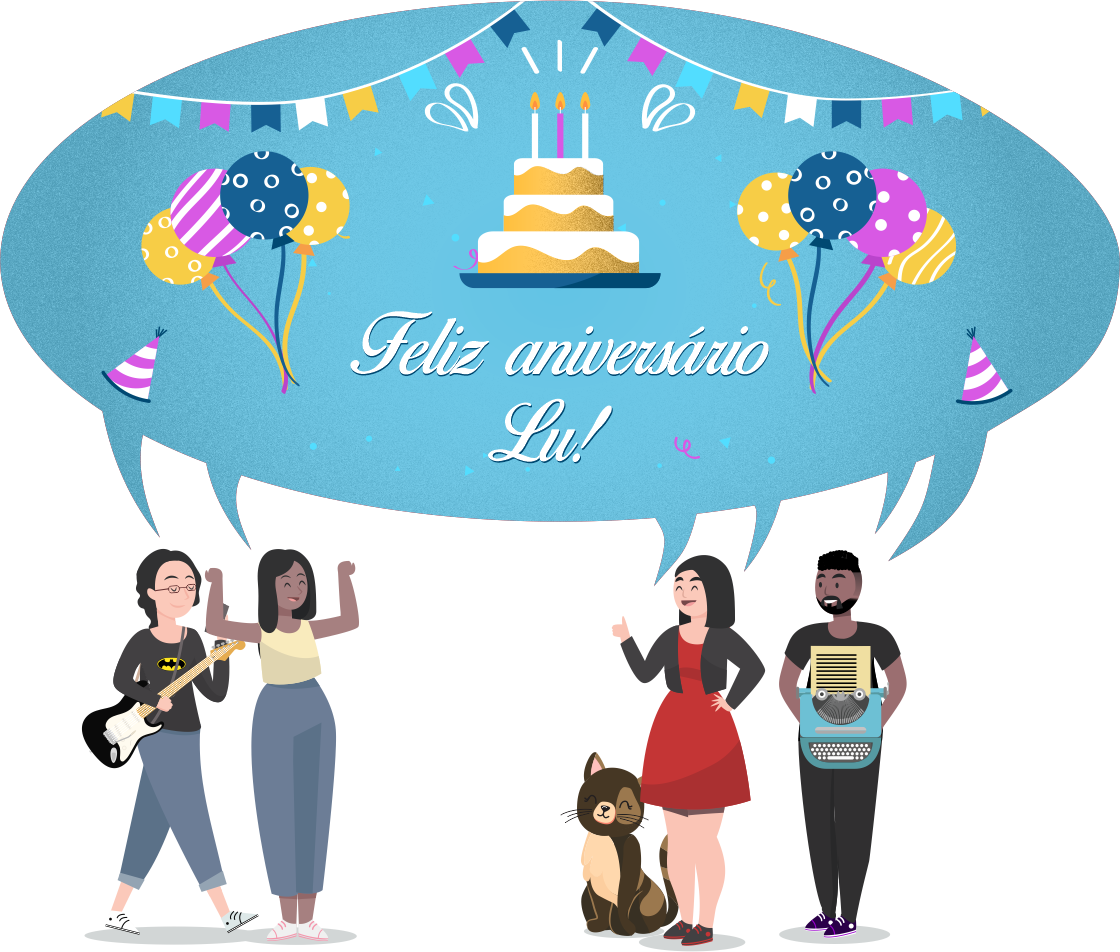
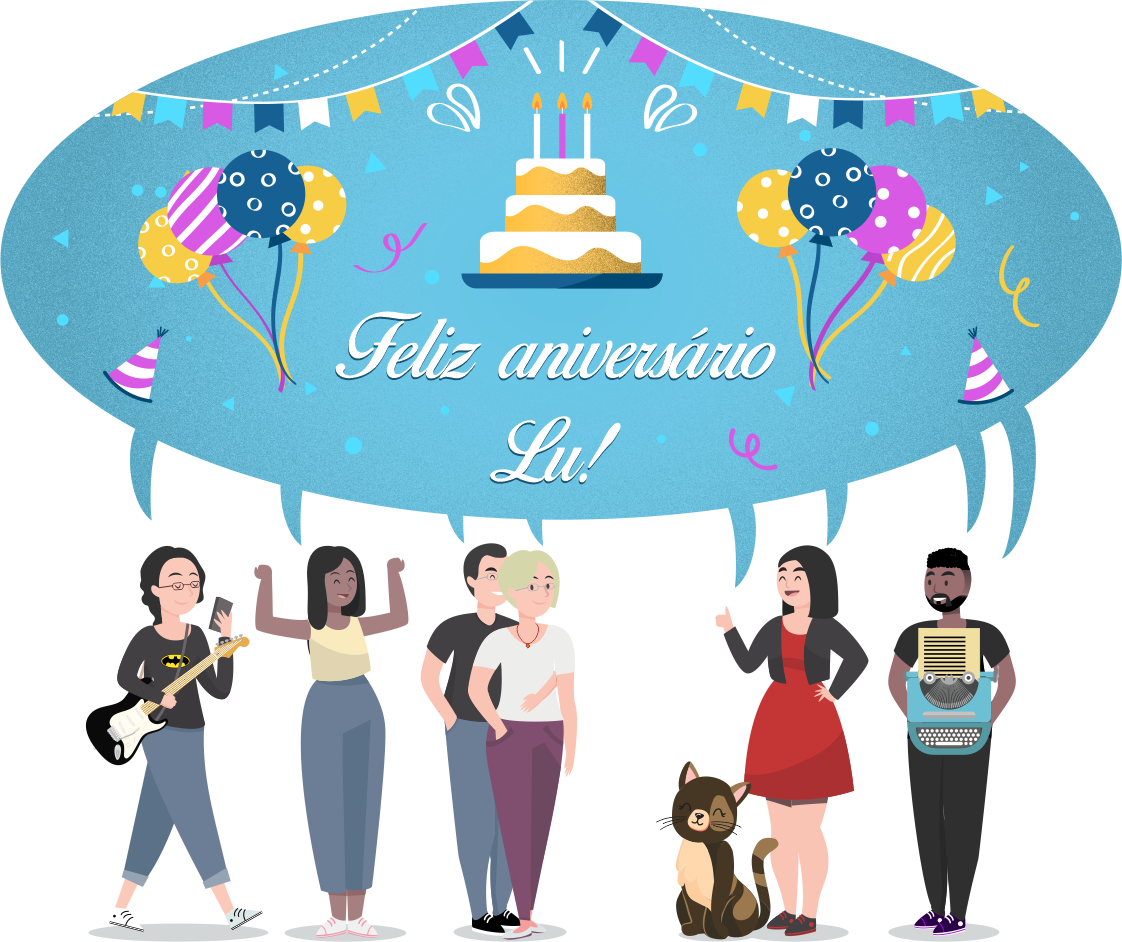
parte dos pais

diff --git a/js/botoes.js b/js/botoes.js
@@ -12,20 +12,22 @@ document.addEventListener("DOMContentLoaded", function(){  // Só vai rodar Js q
     var BtnV = document.getElementById("btnla2");
     var BtnV2 = document.getElementById("btnya2");
     var name = document.querySelector(".caixatexto");
-    var FalasJu = ["Parabéns Lu, desejo tudo de bom para você!", "Ohana", "Aniversários são muitos importantes", "Toddy é melhor que Nescau"];
-    var FalasLa = ["Experlliarmus", "wingardium leviosa"];
+    var FalasJu = ["Parabéns Luuuu!!!! Tudo de bla bla bla!!!", "Kkk a escritora é tu e você sabe que eu não sei falar sobre sentimentos... Sei que você queria que esse ano fosse diferente, festão e tal e infelizmente não teremos como fazer... ", "Mas que esse novo ciclo que inicia seja cheio de realizações, planos, amor, conquistas e bla bla bla ( leia com a voz do Dracula do hotel Transilvânia) 💙💙💙"];
+    var FalasLa = ["Parabéns Lu!!!❤ Feliz aniversário, muitos anos de vidas!", "Conte sempre comigo ❤ Vou te ajudar sempre."];
     var FalasYa = ["Feliz aniversário Lu! Desejo a você muitos anos de vida, paz e amor. Espero que nesse seu 25º aniversário você consiga conquistar tudo o que sempre quis e sonhou.", "Seu querido parceiro, amigo, amante e eterno admirador vai estar sempre com você em todos os momentos que precisar.❤", "Um grande abraço e um beijo com todo o amor e carinho que você conquistou de mim, minha eterna inspiração.  ❤ Amo muito você! ❤", "E eu não sou fofo!"];
     var FalasHo = ["1. O começo...","Campinas, 17 de outubro de 1995 uma bebê de olhos castanhos claros, sobre sua cabeça fios castanhos, chorava desorientada, com tudo.", "Nasce ali a segunda filha de um lindo casal, Luciana e José Luis, Desde cedo seu sorriso contagiava a todos em sua volta.",
     "Sua mãe a nomeou Luísa, a guerreira gloriosa, com o passar dos anos a criança ganhou grande apreço por livros e pela", "Cultura Geek, houve grandes momentos em sua vida, a formatura do Ensino médio, do curso de confeitaria, caligrafia,", "Do curso de inglês ou daquela vez que derrotou o alfaiate no The Witcher 2. Assim como todos também teve seus baixos,",
     "Mas conseguiu superar tudo com a sua força de vontade e ajuda da sua família, hoje é ainda mais incrível e especial que ontem.","Tenho muito orgulho por estar contado um resumo da vida dela minha amada dona, Luísa, Feliz aniversário!!!!", "Fim!"];
     var FalasLu = ["Hmm?", "Hmm...", "Hmm!", "Fuck"];
     var FalasSa = ["Miau!", "Miau..."];
+    var FalasPa = ["Oiiii!!!!!! Bom dia!!!!!!!", "É difícil escrever alguma coisa.... Não que eu não saiba, só perdi o jeito. Eu não escrevo mais. Só mando mensagens pré-escrita por outros....", "Sabe, gostaria de que você tivesse a certeza que eu te amo, incondicionalmente. Que desejo que você seja feliz e tenha todo o sucesso que merece e almeja. Tenha paz e amor no coração.", " Acredite sempre em você, tudo você pode e tudo lhe será dado pelo universo.  Feliz aniversário gatinha... Amo muito você.","Feliz aniversário!!!!!🎁🎉💖🎂", " Ai como é difícil escrever🤪... É tanta coisa que eu queria falar... Mas o que eu gostaria mesmo é que nesse próximo ciclo,", "todas as dores, dúvidas, medos, incertezas sejam trocadas por muito amor, muitas realizações, muitos sonhos e muita, muita, muita, muita felicidade!!!! Te amo muitão!!!!❤❤❤❤❤",""];
     var FalasCa = ["Oi Lu, menina primeiro de tudo eu queria te desejar um maravilhoso aniversário de quarentena!! acho que a gente nunca iria imaginar que isso aconteceria, ","mas já que estamos aqui, que ele seja tão bom quanto os outros. Quero te desejar também tudo de bom desse mundo e toda a felicidade, umas terapia pra enfrentar seja lá ", "o que é isso que a gente tá passando agora 😫 e que você conquiste tudo o que quer. Queria aproveitar pra dizer que você sempre foi uma amiga maravilhosa","a gente se conhece a muitos anos e apesar de morarmos longe e de ter perdido o contrato por um certo tempo, eu fico muito feliz de que a gente voltou a conversar e ", "que continuamos sendo amiguinhas, podendo falar sobre qualquer coisa, literalmente, a gente tem umas conversa aleatória que são boas demais KKKK.", "Obrigada pelo apoio que você vem me dado e eu só espero estar retribuindo tudo isso, quero que saiba que você é muito importante pra mim, sempre foi, e que vou estar aqui pra você se precisar ou não. ", "Pode falar comigo sobre o que quiser, to sempre aí pra ouvir ❤ Parabéns de novo, amo muito você e tô com saudades, espero te ver em breve."];
-    var FotosJu = ["Fts/JuliaFt1.png","Fts/JuliaFt2.png","Fts/JuliaFt3.png","Fts/JuliaFt4.png","Fts/JuliaFt5.png","Fts/JuliaFt6.png","Fts/JuliaFt7.png","Fts/JuliaFt8.png"]
+    var FotosJu = ["Fts/JuliaFt1.png","Fts/JuliaFt2.png","Fts/JuliaFt3.png","Fts/JuliaFt4.png","Fts/JuliaFt5.png","Fts/JuliaFt6.png",];
     var FotosLa = ["Fts/LauraFt1.png","Fts/LauraFt3.png","Fts/LauraFt5.png","Fts/LauraFt6.png"];
     var FotosYa = ["Fts/YagoFt1.png","Fts/YagoFt2.png","Fts/YagoFt3.png","Fts/YagoFt4.png","Fts/YagoFt5.png","Fts/YagoFt6.png","Fts/YagoFt7.png","Fts/YagoFt8.png",];
     var FotosSa = ["Fts/SavicFt1.png","Fts/SavicFt2.png","Fts/SavicFt3.png","Fts/SavicFt4.png"];
     var FotosLu = ["Fts/LuisaFt1.png","Fts/LuisaFt9.png","Fts/LuisaFt3.png","Fts/LuisaFt2.png","Fts/LuisaFt5.png","Fts/LuisaFt6.png","Fts/LuisaFt7.png","Fts/LuisaFt8.png"];
+    var FotosPa = ["Fts/PaisFt1.png","Fts/PaisFt2.png","Fts/PaisFt3.png","Fts/PaisFt4.png","Fts/PaisFt5.png","Fts/PaisFt6.png","Fts/PaisFt7.png","Fts/PaisFt8.png","Fts/PaisFt9.png","Fts/PaisFt10.png","Fts/PaisFt11.png","Fts/CarolFt14.png","Fts/CarolFt14.png","Fts/CarolFt14.png"];
     var FotosHo = ["Fts/HortenciaFt1.png","Fts/HortenciaFt2.png","Fts/HortenciaFt3.png","Fts/HortenciaFt4.png","Fts/HortenciaFt5.png","Fts/HortenciaFt6.png","Fts/HortenciaFt7.png","Fts/HortenciaFt8.png","Fts/HortenciaFt9.png","Fts/HortenciaFt10.png","Fts/HortenciaFt11.png","Fts/HortenciaFt12.png","Fts/HortenciaFt13.png","Fts/HortenciaFt14.png","Fts/HortenciaFt15.png","Fts/HortenciaFt16.png","Fts/HortenciaFt17.png","Fts/HortenciaFt18.png"];
     var FotosCa = ["Fts/CarolFt1.png","Fts/CarolFt2.png","Fts/CarolFt3.png","Fts/CarolFt4.png","Fts/CarolFt5.png","Fts/CarolFt6.png","Fts/CarolFt7.png","Fts/CarolFt8.png","Fts/CarolFt9.png","Fts/CarolFt10.png","Fts/CarolFt11.png","Fts/CarolFt12.png","Fts/CarolFt13.png","Fts/CarolFt14.png"];
     var Musica = ["Musica/OneMoreTime.mp3", "Musica/noise.mp3", "Musica/Monsoon.mp3","Musica/DontJump.mp3","Musica/Giants.mp3","Musica/Awaken.mp3"];
@@ -195,6 +197,24 @@ document.addEventListener("DOMContentLoaded", function(){  // Só vai rodar Js q
                 i=0;
              }       
         } 
+        if(btnselecionado == "btnpa" ) {
+            Fala.textContent=FalasPa[i];
+            if(i<4){
+                name.setAttribute("data-content", "Pai");
+            }else{ name.setAttribute("data-content", "Mãe");}
+
+            i++;
+            if(f<FotosPa.length){
+                FtEsquerda.src = FotosPa[f];
+                f++;
+                FtDireita.src = FotosPa[f];
+                f++;
+            } 
+            ImgCentro.src= "img/PaisSimbolo.png"
+            if(i > FalasPa.length){
+                i=0;
+             }       
+        } 
         if(btnselecionado == "btnca" ) {
             Fala.textContent=FalasCa[i];
             i++;
@@ -253,6 +273,12 @@ document.addEventListener("DOMContentLoaded", function(){  // Só vai rodar Js q
                 name.setAttribute("data-content", "Luísa");
 
             } 
+            if(el.id == "btnpa"){
+                Pessoa.src="Pessoas/Pais.png"
+                name.setAttribute("data-content", "Pai");
+
+               
+            }
             if(el.id == "btnca"){
                 Pessoa.src="Pessoas/Carol.png"
                 name.setAttribute("data-content", "Boné");

diff --git a/index.html b/index.html
@@ -66,6 +66,8 @@
                 <li><button id="btnsa" class="btnPessoa"><img src="Bts/SavicBtn.png"></button></li>
                 <li><button id="btnla" class="btnPessoa"><img src="Bts/LauraBtn.png"></button></li>
                 <li><button id="btnlu" class="btnPessoa"><img src="Bts/LuisaBtn.png"></button></li>  
+                <li><button id="btnpa" class="btnPessoa"><img src="Bts/PaisBtn.png"></button></li>  
+
                   
 
             </ul>    
@@ -96,7 +98,7 @@
         <script src="js/botoes.js"></script>
 
     <footer>
-        <p>Com todo o amor e carinho, Boné, Laura, Savic, Julia, Yago, Hortência e Johnatan.</p>
+        <p>Com todo o amor e carinho, Boné, Laura, José Luis, Luciana, Savic, Julia, Yago, Hortência e Johnatan.</p>
     </footer>
 
     </div>
